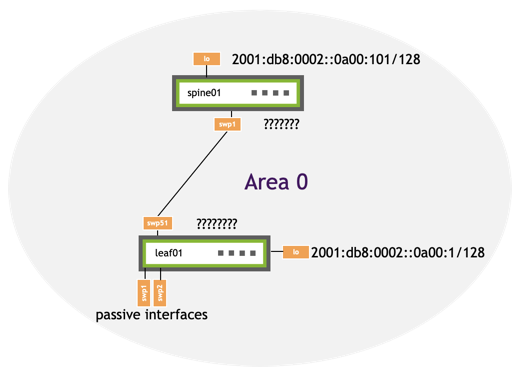
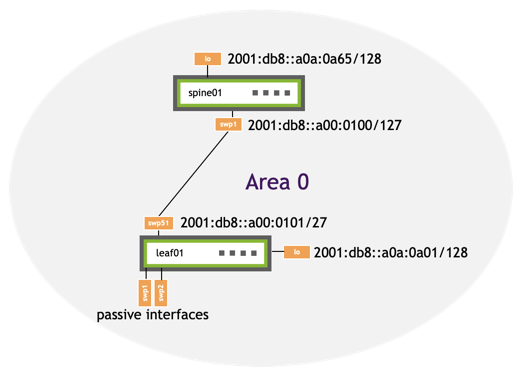
many updates

diff --git a/content/cumulus-linux-42/Layer-3/OSPF/Open-Shortest-Path-First-v3-OSPFv3.md b/content/cumulus-linux-42/Layer-3/OSPF/Open-Shortest-Path-First-v3-OSPFv3.md
@@ -30,7 +30,7 @@ The following example commands configure OSPF numbered on leaf01 and spine01.
 
 | leaf01 | spine01 |
 | ------ | ------- |
-| <ul><li>The loopback address is 2001:db8:0002::0a00:1/128</li><li>The IP address on swp51 is 2001:db8:2000:0a00::/64</li><li>The router ID is 10.10.10.1</li><li>All the interfaces on the switch with an IP address that matches subnet 2001:db8::1/128 and swp51 with IP address ????? are in area 0.0.0.0</li><li>swp1 and swp2 are passive interfaces</li></ul> | <ul><li>The loopback address is 2001:db8:0002::0a00:101/128</li><li>The IP address on swp1 is ??????</li><li>The router ID is 10.10.10.101</li><li>All interfaces on the switch with an IP address that matches subnet 2001:db8:0002::0a00:101/128 and swp1 with IP address ??????? are in area 0.0.0.0.</li></ul> |
+| <ul><li>The loopback address is 2001:db8::a0a:0a01/128</li><li>The IP address on swp51 is 2001:db8::a00:0101/127</li><li>The router ID is 10.10.10.1</li><li>All the interfaces on the switch with an IP address that matches subnet 2001:db8::a0a:0a01/128 and swp51 with IP address 2001:db8::a00:0101/127 are in area 0.0.0.0</li><li>swp1 and swp2 are passive interfaces</li></ul> | <ul><li>The loopback address is 2001:db8::a0a:0a65/128</li><li>The IP address on swp1 is 22001:db8::a00:0100/127</li><li>The router ID is 10.10.10.101</li><li>All interfaces on the switch with an IP address that matches subnet 2001:db8::a0a:0a65/128 and swp1 with IP address 2001:db8::a00:0100/127 are in area 0.0.0.0.</li></ul> |
 
 {{< tabs "TabID29 ">}}
 
@@ -41,22 +41,15 @@ The following example commands configure OSPF numbered on leaf01 and spine01.
 {{< tab "leaf01 ">}}
 
 ```
-cumulus@leaf01:~$ net add loopback lo ip address 2001:db8:0002::0a00:1/128
-cumulus@leaf01:~$ net add interface swp51 ip address 2001:db8:2000:0a00::/64
+cumulus@leaf01:~$ net add loopback lo ip address 2001:db8::a0a:0a01/128
+cumulus@leaf01:~$ net add interface swp51 ip address 2001:db8::a00:0101/127
 cumulus@leaf01:~$ net add ospf6 router-id 10.10.10.1
 cumulus@leaf01:~$ net add ospf6 interface lo area 0.0.0.0
 cumulus@leaf01:~$ net add ospf6 interface swp51 area 0.0.0.0
-cumulus@leaf01:~$ net add ospf6 passive-interface swp1
-cumulus@leaf01:~$ net add ospf6 passive-interface swp2
+cumulus@leaf01:~$ net add interface swp1 ospf6 passive
+cumulus@leaf01:~$ net add interface swp2 ospf6 passive
 cumulus@leaf01:~$ net pending
 cumulus@leaf01:~$ net commit
-```
-
-You can use the `net add ospf passive-interface default` command to set all interfaces as *passive* and the `net del ospf passive-interface <interface>` command to selectively bring up protocol adjacency only on certain interfaces:
-
-```
-cumulus@leaf01:~$ net add ospf6 passive-interface default
-cumulus@leaf01:~$ net del ospf6 passive-interface swp51
 ```
 
 {{< /tab >}}
@@ -64,20 +57,13 @@ cumulus@leaf01:~$ net del ospf6 passive-interface swp51
 {{< tab "spine01 ">}}
 
 ```
-cumulus@spine01:~$ net add loopback lo ip address 2001:db8:0002::0a00:101/128
-cumulus@spine01:~$ net add interface swp1 ip address ????
+cumulus@spine01:~$ net add loopback lo ip address 2001:db8::a0a:0a65/128
+cumulus@spine01:~$ net add interface swp1 ip address 2001:db8::a00:0100/127
 cumulus@spine01:~$ net add ospf6 router-id 10.10.10.101
 cumulus@spine01:~$ net add ospf6 interface lo area 0.0.0.0
 cumulus@spine01:~$ net add ospf6 interface swp1 area 0.0.0.0
 cumulus@spine01:~$ net pending
 cumulus@spine01:~$ net commit
-```
-
-You can use the `net add ospf passive-interface default` command to set all interfaces as *passive* and the `net del ospf passive-interface <interface>` command to selectively bring up protocol adjacency only on certain interfaces:
-
-```
-cumulus@spine01:~$ net add ospf6 passive-interface default
-cumulus@spine01:~$ net del ospf6 passive-interface swp1
 ```
 
 {{< /tab >}}
@@ -92,7 +78,7 @@ cumulus@spine01:~$ net del ospf6 passive-interface swp1
 
 {{< tab "leaf01 ">}}
 
-1. Enable the `ospf6` daemon, then start the FRRouting service. See {{<link url="Configure-FRRouting">}}.
+1. Edit the `/etc/frr/daemons` file to enable the `ospf6` daemon, then start the FRRouting service (see {{<link url="Configure-FRRouting">}}).
 
 2. Edit the `/etc/network/interfaces` file to configure the IP address for the loopback and swp51:
 
@@ -101,11 +87,11 @@ cumulus@spine01:~$ net del ospf6 passive-interface swp1
   ...
   auto lo
   iface lo inet loopback
-    address 2001:db8:0002::0a00:1/128
+    address 2001:db8::a0a:0a01/128
 
   auto swp51
   iface swp51
-    address ?????
+    address 2001:db8::a00:0101/127
   ```
 
 3. Run the `ifreload -a` command to load the new configuration:
@@ -121,43 +107,42 @@ cumulus@spine01:~$ net del ospf6 passive-interface swp1
 
     leaf01# configure terminal
     leaf01(config)# router ospf6
-    leaf01(config-ospf6)# ospf router-id 10.10.10.1
+    leaf01(config-ospf6)# ospf6 router-id 10.10.10.1
     leaf01(config-ospf6)# interface lo area 0.0.0.0
     leaf01(config-ospf6)# interface swp51 area 0.0.0.0
-    leaf01(config-ospf6)# passive-interface swp1
-    leaf01(config-ospf6)# passive-interface swp2
-    leaf01(config-ospf6)# end
+    leaf01(config-ospf6)# exit
+    leaf01(config)# interface swp1
+    leaf01(config-if)# ipv6 ospf6 passive
+    leaf01(config-if)# exit
+    leaf01(config)# interface swp2
+    leaf01(config-if)# ipv6 ospf6 passive
+    leaf01(config-if)# exit
+    leaf01(config)# interface swp51
+    leaf01(config-if)# ipv6 ospf6 network point-to-point
+    leaf01(config-if)# end
     leaf01# write memory
     leaf01# exit
     cumulus@leaf01:~$
     ```
 
-You can use the `passive-interface default` command to set all interfaces as *passive* and selectively bring up protocol adjacency only on certain interfaces:
-
-```
-leaf01(config)# router ospf6
-leaf01(config-ospf6)# passive-interface default
-leaf01(config-ospf6)# no passive-interface swp51
-```
-
 {{< /tab >}}
 
 {{< tab "spine01 ">}}
 
-1. Enable the `ospf` daemon, then start the FRRouting service. See {{<link url="Configure-FRRouting">}}.
+1. Edit the `/etc/frr/daemons` file to enable the `ospf6` daemon, then start the FRRouting service (see {{<link url="Configure-FRRouting">}}).
 
 2. Edit the `/etc/network/interfaces` file to configure the IP address for the loopback and swp1:
 
     ```
-    cumulus@leaf01:~$ sudo nano /etc/network/interfaces
+    cumulus@spine01:~$ sudo nano /etc/network/interfaces
     ...
     auto lo
     iface lo inet loopback
-      address 2001:db8:0002::0a00:101/128
+      address 2001:db8::a0a:0a65/128
 
-    auto swp51
-    iface swp51
-      address ?????
+    auto swp1
+    iface swp1
+      address 2001:db8::a00:0100/127
     ```
 
 3. Run the `ifreload -a` command to load the new configuration:
@@ -173,22 +158,20 @@ leaf01(config-ospf6)# no passive-interface swp51
 
     spine01# configure terminal
     spine01(config)# router ospf6
-    spine01(config-ospf6)# ospf router-id 10.10.10.101
+    spine01(config-ospf6)# ospf6 router-id 10.10.10.101
     spine01(config-ospf6)# interface lo area 0.0.0.0
     spine01(config-ospf6)# interface swp1 area 0.0.0.0
-    spine01(config-ospf6)# end
+    spine01(config-ospf6)# exit
+    spine01(config)# interface swp2
+    spine01(config-if)# ipv6 ospf6 passive
+    spine01(config-if)# exit
+    spine01(config)# interface swp1
+    spine01(config-if)# ipv6 ospf6 network point-to-point
+    spine01(config-if)# end
     spine01# write memory
     spine01# exit
     cumulus@spine01:~$
     ```
-
-You can use the `passive-interface default` command to set all interfaces as *passive* and selectively bring up protocol adjacency only on certain interfaces:
-
-```
-spine01(config)# router ospf6
-spine01(config-ospf6)# passive-interface default
-spine01(config-ospf6)# no passive-interface swp1
-```
 
 {{< /tab >}}
 
@@ -210,8 +193,12 @@ router ospf6
  ospf router-id 10.10.10.1
  interface lo area 0.0.0.0
  interface swp51 area 0.0.0.0
- passive-interface swp1
- passive-interface swp2
+
+interface swp2
+ ipv6 ospf6 passive
+
+interface swp1
+ ipv6 ospf6 passive
 ...
 ```
 
@@ -250,7 +237,7 @@ The following example commands configure OSPFv3 unnumbered on leaf01 and spine01
 
 | leaf01 | spine01 |
 | ------ | ------- |
-| <ul><li>The loopback address is 2001:db8:0002::0a00:1/128</li><li>The router ID is 10.10.10.1</li><li>OSPF is enabled on the loopback interface and on swp51 in area 0.0.0.0</li><li>swp1 and swp2 are passive interfaces</li><li>swp51 is a point-to-point interface (point-to-point is required for unnumbered interfaces)</li><ul>|<ul><li>The loopback address is 2001:db8:0002::0a00:101/128</li><li>The router ID is 10.10.10.101</li><li>OSPF is enabled on the loopback interface and on swp1 in area 0.0.0.0</li><li>swp1 is a point-to-point interface (point-to-point is required for unnumbered interfaces)</li><ul> |
+| <ul><li>The loopback address is 2001:db8::a0a:0a01/128</li><li>The router ID is 10.10.10.1</li><li>OSPF is enabled on the loopback interface and on swp51 in area 0.0.0.0</li><li>swp1 and swp2 are passive interfaces</li><li>swp51 is a point-to-point interface (point-to-point is required for unnumbered interfaces)</li><ul>|<ul><li>The loopback address is 2001:db8::a0a:0a65/128</li><li>The router ID is 10.10.10.101</li><li>OSPF is enabled on the loopback interface and on swp1 in area 0.0.0.0</li><li>swp1 is a point-to-point interface (point-to-point is required for unnumbered interfaces)</li><ul> |
 
 {{< tabs "TabID257 ">}}
 
@@ -261,7 +248,7 @@ The following example commands configure OSPFv3 unnumbered on leaf01 and spine01
 {{< tab "leaf01 ">}}
 
 ```
-cumulus@leaf01:~$ net add loopback lo ip address 2001:db8:0002::0a00:1/128
+cumulus@leaf01:~$ net add loopback lo ip address 2001:db8::a0a:0a01/128
 cumulus@leaf01:~$ net add ospf6 router-id 10.10.10.1
 cumulus@leaf01:~$ net add ospf6 interface lo area 0.0.0.0
 cumulus@leaf01:~$ net add ospf6 interface swp51 area 0.0.0.0
@@ -277,7 +264,7 @@ cumulus@leaf01:~$ net commit
 {{< tab "spine01 ">}}
 
 ```
-cumulus@spine01:~$ net add loopback lo ip address 2001:db8:0002::0a00:101/128
+cumulus@spine01:~$ net add loopback lo ip address 2001:db8::a0a:0a65/128
 cumulus@spine01:~$ net add ospf6 router-id 10.10.10.1
 cumulus@spine01:~$ net add ospf6 interface lo area 0.0.0.0
 cumulus@spine01:~$ net add ospf6 interface swp1 area 0.0.0.0
@@ -298,7 +285,7 @@ cumulus@spine01:~$ net commit
 
 {{< tab "leaf01 ">}}
 
-1. Enable the `ospf6` daemon, then start the FRRouting service. See {{<link url="Configure-FRRouting">}}.
+1. Edit the `/etc/frr/daemons` file to enable the `ospf6` daemon, then start the FRRouting service (see {{<link url="Configure-FRRouting">}}).
 
 2. Edit the `/etc/network/interfaces` file to configure the IP address for the loopback and swp51:
 
@@ -307,11 +294,11 @@ cumulus@spine01:~$ net commit
   ...
   auto lo
   iface lo inet loopback
-    address 2001:db8:0002::0a00:1/128
+    address 2001:db8::a0a:0a01/128
 
   auto swp1
   iface swp1
-    address 2001:db8:0002::0a00:1/128
+    address 2001:db8::a0a:0a01/128
   ```
 
 3. Run the `ifreload -a` command to load the new configuration:
@@ -326,7 +313,7 @@ cumulus@leaf01:~$ sudo vtysh
 
 leaf01# configure terminal
 leaf01(config)# router ospf6
-leaf01(config-ospf6)# ospf router-id 10.10.10.1
+leaf01(config-ospf6)# ospf6 router-id 10.10.10.1
 leaf01(config-ospf6)# interface lo area 0.0.0.0
 leaf01(config-ospf6)# interface swp51 area 0.0.0.0
 leaf01(config-ospf6)# exit
@@ -348,20 +335,20 @@ cumulus@leaf01:~$
 
 {{< tab "spine01 ">}}
 
-1. Enable the `ospf6` daemon, then start the FRRouting service. See {{<link url="Configure-FRRouting">}}.
+1. Edit the `/etc/frr/daemons` file to enable the `ospf6` daemon, then start the FRRouting service (see {{<link url="Configure-FRRouting">}}).
 
 2. Edit the `/etc/network/interfaces` file to configure the IP address for the loopback and swp1:
 
   ```
-  cumulus@leaf01:~$ sudo nano /etc/network/interfaces
+  cumulus@spine01:~$ sudo nano /etc/network/interfaces
   ...
   auto lo
   iface lo inet loopback
-    address 2001:db8:0002::0a00:101/128
+    address 2001:db8::a0a:0a65/128
 
   auto swp51
   iface swp51
-    address 2001:db8:0002::0a00:101/128
+    address 2001:db8::a0a:0a65/128
   ```
 
 3. Run the `ifreload -a` command to load the new configuration:
@@ -981,9 +968,9 @@ Codes: K - kernel route, C - connected, S - static, R - RIPng,
        f - OpenFabric,
        > - selected route, * - FIB route, q - queued route, r - rejected route
 
-O   2001:db8:2::a00:1/128 [110/10] is directly connected, lo, weight 1, 00:07:17
-O>* 2001:db8:2::a00:101/128 [110/110] via fe80::4638:39ff:fe00:2, swp51, weight 1, 00:03:22
-O   2001:db8:2000:a00::/64 [110/100] is directly connected, swp51, weight 1, 00:03:27
+O   2001:db8::a0a:0a01/128 [110/10] is directly connected, lo, weight 1, 00:07:17
+O>* 2001:db8::a0a:0a01/128 [110/110] via fe80::4638:39ff:fe00:2, swp51, weight 1, 00:03:22
+O   2001:db8::a00:0101/127 [110/100] is directly connected, swp51, weight 1, 00:03:27
 ```
 
 To capture OSPF packets, run the `sudo tcpdump -v -i swp1 ip proto ospf6` command.

diff --git a/content/cumulus-linux-42/Layer-3/OSPF/Open-Shortest-Path-First-v2-OSPFv2.md b/content/cumulus-linux-42/Layer-3/OSPF/Open-Shortest-Path-First-v2-OSPFv2.md
@@ -86,7 +86,7 @@ cumulus@spine01:~$ net del ospf passive-interface swp1
 
 {{< tab "leaf01 ">}}
 
-1. Enable the `ospf` daemon, then start the FRRouting service. See {{<link url="Configure-FRRouting">}}.
+1. Edit the `/etc/frr/daemons` file to enable the `ospf` daemon, then start the FRRouting service (see {{<link url="Configure-FRRouting">}}).
 
 2. Edit the `/etc/network/interfaces` file to configure the IP address for the loopback and swp51:
 
@@ -139,7 +139,7 @@ leaf01(config-router)# no passive-interface swp51
 
 {{< tab "spine01 ">}}
 
-1. Enable the `ospf` daemon, then start the FRRouting service. See {{<link url="Configure-FRRouting">}}.
+1. Edit the `/etc/frr/daemons` file to enable the `ospf` daemon, then start the FRRouting service (see {{<link url="Configure-FRRouting">}}).
 
 2. Edit the `/etc/network/interfaces` file to configure the IP address for the loopback and swp1:
 
@@ -328,7 +328,7 @@ cumulus@spine01:~$ net del ospf passive-interface swp1
 
 {{< tab "leaf01 ">}}
 
-1. Enable the `ospf` daemon, then start the FRRouting service. See {{<link url="Configure-FRRouting">}}.
+1. Edit the `/etc/frr/daemons` file to enable the `ospf` daemon, then start the FRRouting service (see {{<link url="Configure-FRRouting">}}).
 
 2. Edit the `/etc/network/interfaces` file to configure the loopback and unnumbered interface address:
 
@@ -344,13 +344,13 @@ cumulus@spine01:~$ net del ospf passive-interface swp1
       address 10.10.10.1/32
     ```
 
-2. Run the `ifreload -a` command to load the new configuration:
+3. Run the `ifreload -a` command to load the new configuration:
 
     ```
     cumulus@switch:~$ ifreload -a
     ```
 
-3. From the `vtysh` shell, configure OSPF:
+4. From the `vtysh` shell, configure OSPF:
 
     ```
     cumulus@leaf01:~$ sudo vtysh
@@ -385,7 +385,7 @@ cumulus@spine01:~$ net del ospf passive-interface swp1
 
 {{< tab "spine01 ">}}
 
-1. Enable the `ospf` daemon, then start the FRRouting service. See {{<link url="Configure-FRRouting">}}.
+1. Edit the `/etc/frr/daemons` file to enable the `ospf` daemon, then start the FRRouting service (see {{<link url="Configure-FRRouting">}}).
 
 2. Edit the `/etc/network/interfaces` file to configure the loopback and unnumbered interface address:
 
@@ -401,13 +401,13 @@ cumulus@spine01:~$ net del ospf passive-interface swp1
       address 10.10.10.101/32
     ```
 
-2. Run the `ifreload -a` command to load the new configuration:
+3. Run the `ifreload -a` command to load the new configuration:
 
     ```
     cumulus@spine01:~$ sudo ifreload -a
     ```
 
-3. From the `vtysh` shell, configure OSPF:
+4. From the `vtysh` shell, configure OSPF:
 
     ```
     cumulus@spine01:~$ sudo vtysh
